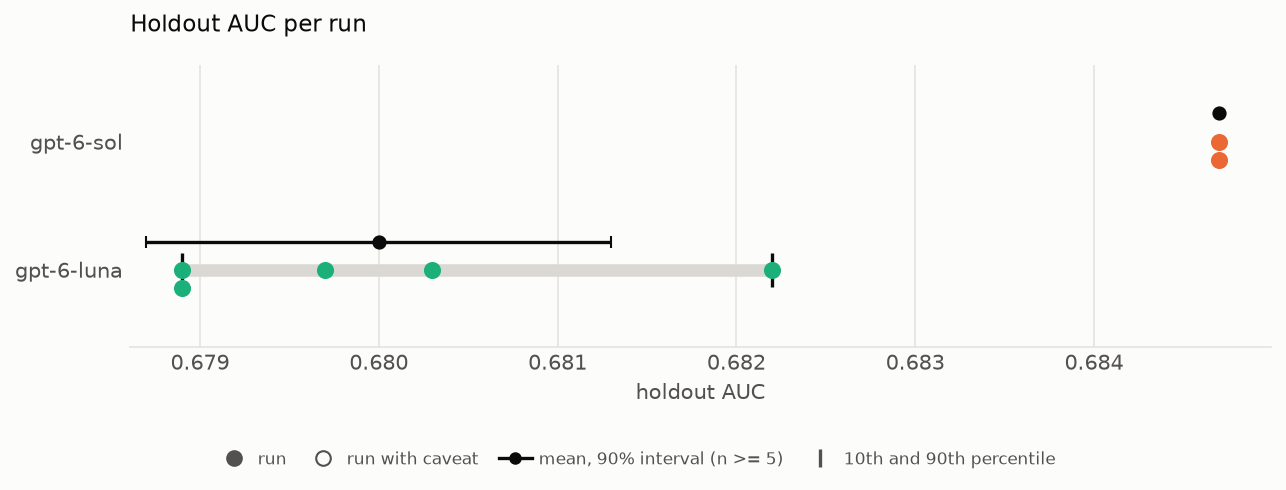
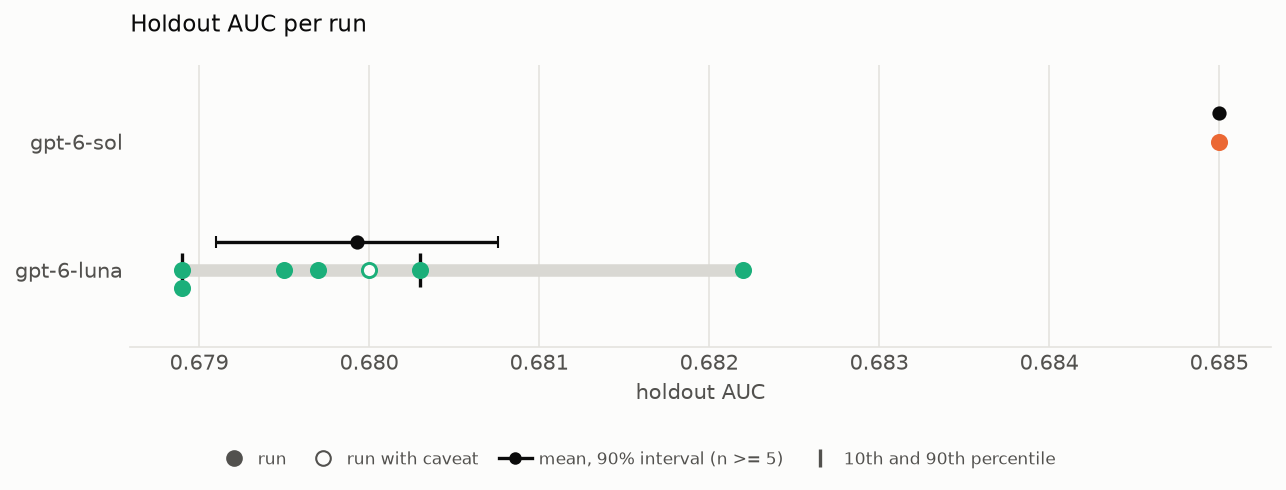
Summary with luna6_n20 runs 1-7 and sol6_n20 run 1
README results block and SUMMARY plots redrawn by /xgb-summary, after
test1 was moved to archive/: gpt-6-sol now comes from sol6_n20 only.

diff --git a/README.md b/README.md
@@ -27,10 +27,10 @@ All runs with codex-cli 0.160.0 at effort max, a 24 GB container memory cap and 
 
 | model | groups | valid runs | excluded | holdout AUC mean | sd | min | median | max |
 |---|---|---|---|---|---|---|---|---|
-| gpt-6-sol | [test1](run-multi/test1/results_summary.md) | 2 | 1 | 0.6847 | 0.0000 | 0.6847 | 0.6847 | 0.6847 |
-| gpt-6-luna | [luna6_n20](run-multi/luna6_n20/results_summary.md) | 5 | 0 | 0.6800 | 0.0014 | 0.6789 | 0.6797 | 0.6822 |
+| gpt-6-sol | [sol6_n20](run-multi/sol6_n20/results_summary.md) | 1 | 0 | 0.6850 | - | 0.6850 | 0.6850 | 0.6850 |
+| gpt-6-luna | [luna6_n20](run-multi/luna6_n20/results_summary.md) | 7 (1 with caveat) | 0 | 0.6799 | 0.0011 | 0.6789 | 0.6797 | 0.6822 |
 
-No run carries a caveat. One run was excluded: test1-2, after three turns in a row ended with OpenAI's "Selected model is at capacity" error. Group luna6_n20 is in progress, with 5 runs reviewed so far. luna6_n20-1 is valid with a `train_py_review` flag, a false match explained in its `run.md`. All valid runs have the same settings.
+One run carries a caveat: luna6_n20-6, `keep_rule` (a commit kept at an equal Eval AUC without being simpler or faster). No run was excluded. Both groups are in progress: luna6_n20 with 7 and sol6_n20 with 1 of their 20 runs reviewed so far. luna6_n20-1 and luna6_n20-7 are valid with a `train_py_review` flag, a false match explained in their `run.md`. The test group test1 was moved to `archive/` and is not included. All valid runs have the same settings.
 
 ![Holdout AUC per run](run-multi/SUMMARY/holdout_auc_beeswarm.png)
 <!-- xgb-summary: end -->
